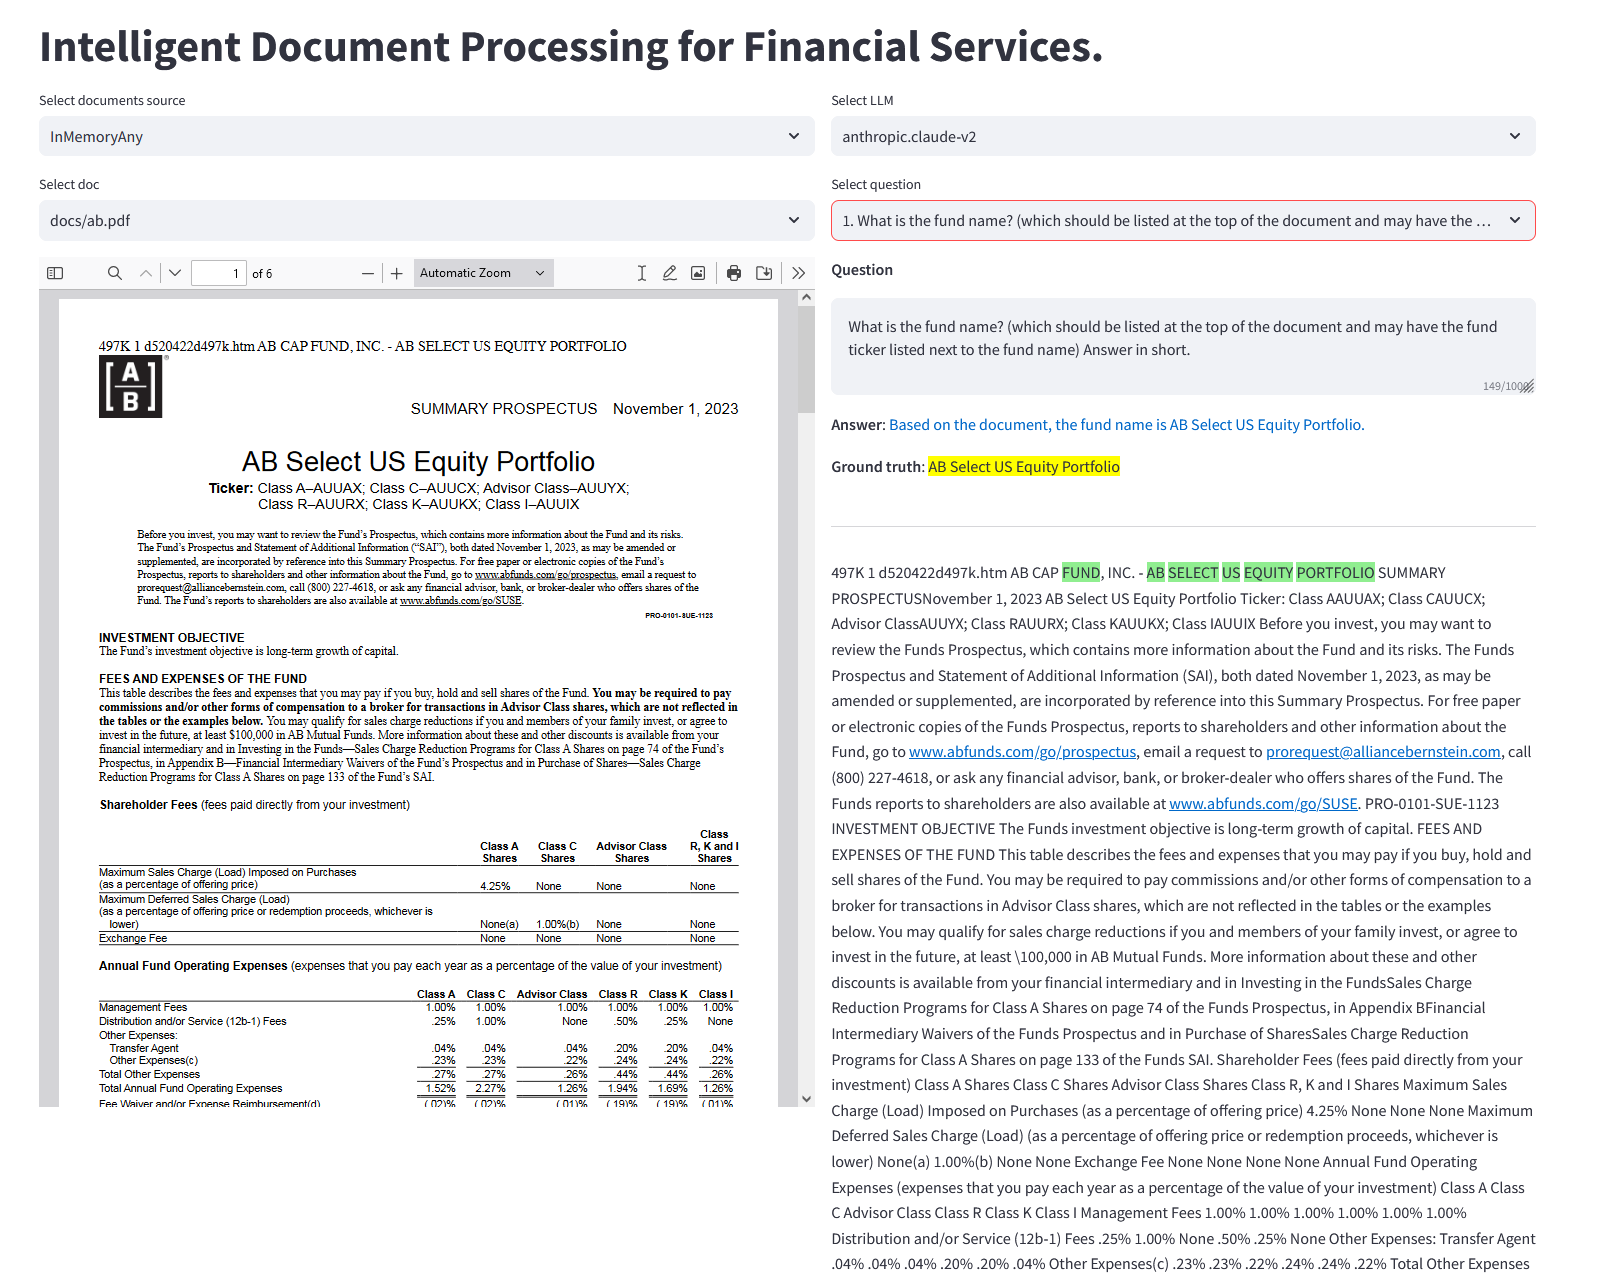
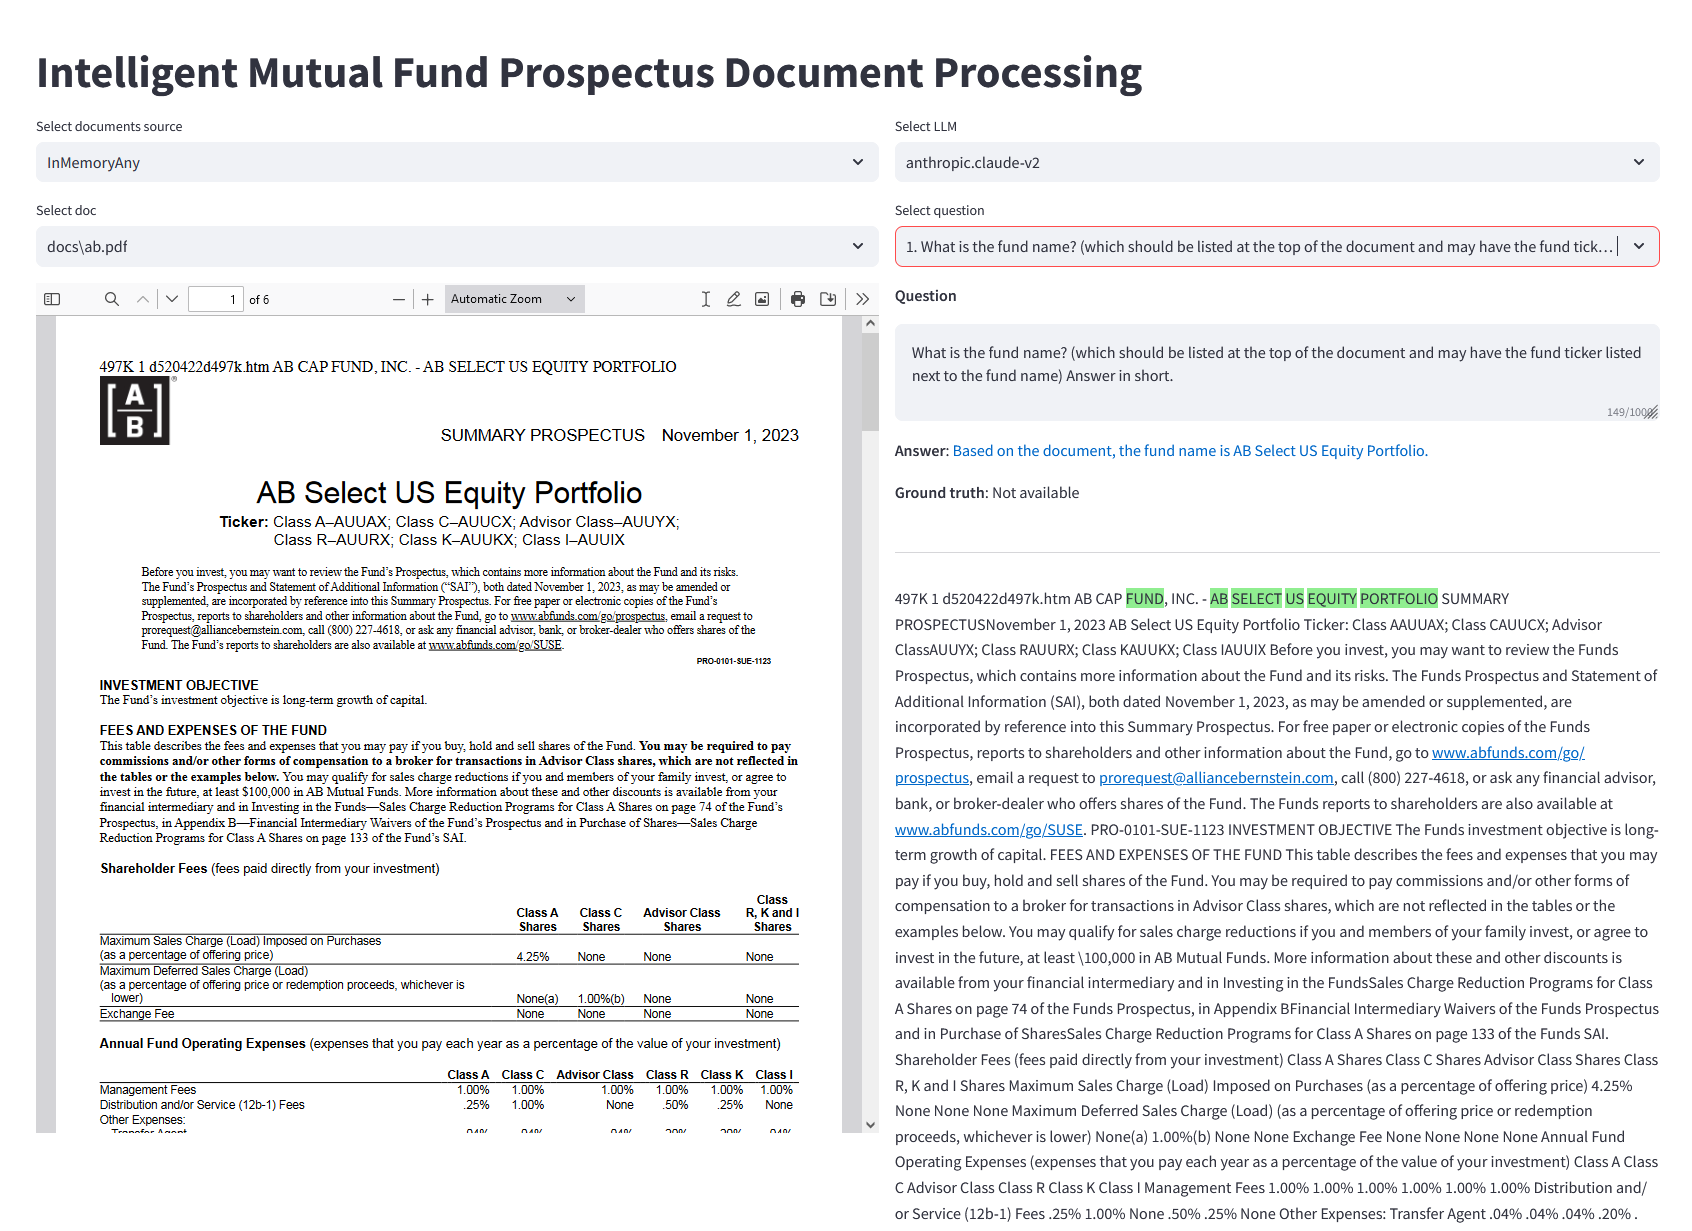
initial release fixes

Changed region(s): [[0.0, 0.0, 0.9688, 1.0]]

diff --git a/intelligent-mutual-fund-prospectus-document-processing/app.py b/intelligent-mutual-fund-prospectus-document-processing/app.py
@@ -207,7 +207,7 @@ def main():
     # Ensure the environment is set up correctly
     check_env()
 
-    st.title("Intelligent Document Processing for Financial Services.")
+    st.title("Intelligent Mutual Fund Prospectus Document Processing")
 
     col1, col2 = st.columns([2.2, 2.0])  # Adjust the ratio as needed
 

diff --git a/intelligent-mutual-fund-prospectus-document-processing/README.md b/intelligent-mutual-fund-prospectus-document-processing/README.md
@@ -1,29 +1,32 @@
 # Intelligent Mutual Fund Prospectus Document Processing 📈🤖
 
+[![GitHub star chart](https://img.shields.io/github/stars/aws-samples/generative-ai-financial-services-samples?style=social)](https://star-history.com/#aws-samples/generative-ai-financial-services-samples)
+[![License: MIT](https://img.shields.io/badge/License-MIT-yellow.svg)](https://opensource.org/licenses/MIT)
+
 Welcome to our state-of-the-art Intelligent Mutual Fund Prospectus Document Processing tailored specifically for financial services. By leveraging a unique and advanced workflow, our system ensures precise, context-aware responses, making it a frontrunner in AI-driven financial communication solutions.
 
 ![Screenshot](assets/screenshot.png)
 
-## Features 🌟
+# Features 🌟
 
 - **Mutual Fund Prospectus-centric RAG Workflow**: A robust model that understands the intricacies of the Mutual Fund Prospectus.
 - **Pre-summarization**: Ensure detailed and context-aware responses every time.
 - **Seamless Integration**: Integrated with tools like Langchain, Streamlit, and Bedrock for a seamless experience.
 
-## Project Diagram 📊 
+# Project Diagram 📊 
 
 ![Project Diagram](assets/diagram.png)
 
-## Run Locally 💻
+# Run Locally 💻
 
-### Intelligent Mutual Fund Prospectus Document Processing Demo
+## Intelligent Mutual Fund Prospectus Document Processing Demo
 
 This repository beautifully marries the capabilities of:
 1. **Langchain**: Advanced linguistic chains and text parsing.
 2. **Streamlit**: An intuitive platform for crafting custom ML tools.
 3. **Bedrock**: Crafting complex ML structures with ease.
 
-### Install
+## Install
 
 ```bash
 conda update conda -c conda-canary
@@ -35,7 +38,7 @@ pip install --upgrade pip
 pip install --upgrade -r requirements.txt
 ```
 
-### Run
+## Run
 
 Before running the application, please ensure you have access to Amazon Bedrock and its required models. See [here](https://docs.aws.amazon.com/bedrock/latest/userguide/setting-up.html) for more info.
 
@@ -56,11 +59,11 @@ streamlit run app.py
 The application will pick your default AWS credentials in this case.
 
 
-#### Known Issues
+### Known Issues
 
 Should you encounter the "Killed streamlit" message during highlighted tokens computation, it's likely due to resource constraints. Opt for a more powerful instance if this occurs.
 
-## Running with Containers 🐳
+# Running with Containers 🐳
 
 To utilize containers, proceed as follows:
 
@@ -110,7 +113,7 @@ docker-compose up -d
 
 In either cases, please note your EC2 url and ensure your streamlit is exposed to view the app. You might need all the necessary permissions and settings for this.
 
-## Project Structure 🌲
+# Project Structure 🌲
 
 Our project follows a clear and intuitive structure to ensure ease of navigation:
 
@@ -128,17 +131,26 @@ To make the most out of our project, familiarize yourself with these key compone
    ├── labels/              
    ├── langchain_handler/            
    ├── utils/
-   ├── .dockerignore   
-   ├── .env   
+   ├── .dockerignore
    ├── .gitignore
    ├── app.py             
    ├── config.yml
-   ├── CONTRIBUTING
    ├── docker-compose.yml
    ├── Dockerfile
-   ├── LICENCE
    ├── README.md
    ├── requirements-dev.txt
    ├── requirements.txt
    └── run.sh 
 ```
+
+# Authors
+
+- [Dayo Oguntoyinbo](https://www.linkedin.com/in/iamdayo/)
+- [Kosta Belz](https://www.linkedin.com/feed/)
+- [Max Winter](https://www.linkedin.com/in/maxwinter/)
+- [Rubén Afonso](https://www.linkedin.com/in/rubenafonso/)
+- [Samuel Baruffi](https://www.linkedin.com/in/samuelbaruffi/)
+
+# Contributors
+
+[![contributors](https://contrib.rocks/image?repo=aws-samples/generative-ai-financial-services-samples&max=2000)](https://github.com/aws-samples/generative-ai-financial-services-samples/graphs/contributors)
